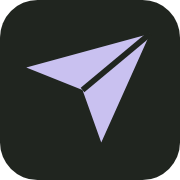
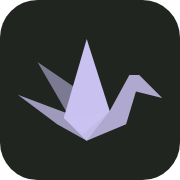
Replace paper plane with lavender origami crane

Changed region(s): [[0.1111, 0.1944, 0.9167, 0.8056]]

diff --git a/apps/web/index.html b/apps/web/index.html
@@ -18,11 +18,11 @@
     <meta name="twitter:description" content="Public Papertrade analytics: live protocol metrics, wallet balances, deposits, and trading history." />
     <meta name="twitter:image:alt" content="paperclub wordmark beside a manga woman with lavender headphones overlooking a city." />
     <link rel="preload" href="/fonts/dm-sans-latin.woff2" as="font" type="font/woff2" crossorigin />
-    <link rel="icon" type="image/png" sizes="16x16" href="/favicon-16.png?v=paper-plane" />
-    <link rel="icon" type="image/png" sizes="32x32" href="/favicon-32.png?v=paper-plane" />
-    <link rel="icon" type="image/png" sizes="192x192" href="/favicon-192.png?v=paper-plane" />
-    <link rel="icon" type="image/svg+xml" sizes="any" href="/favicon.svg?v=paper-plane" />
-    <link rel="apple-touch-icon" sizes="180x180" href="/apple-touch-icon.png?v=paper-plane" />
+    <link rel="icon" type="image/png" sizes="16x16" href="/favicon-16.png?v=origami-crane-v1" />
+    <link rel="icon" type="image/png" sizes="32x32" href="/favicon-32.png?v=origami-crane-v1" />
+    <link rel="icon" type="image/png" sizes="192x192" href="/favicon-192.png?v=origami-crane-v1" />
+    <link rel="icon" type="image/svg+xml" sizes="any" href="/favicon.svg?v=origami-crane-v1" />
+    <link rel="apple-touch-icon" sizes="180x180" href="/apple-touch-icon.png?v=origami-crane-v1" />
     <title>paperclub — Papertrade analytics</title>
   </head>
   <body>

diff --git a/apps/web/src/App.tsx b/apps/web/src/App.tsx
@@ -71,12 +71,17 @@ function PaperMark({ size = 30 }: { size?: number }) {
     <svg
       width={size}
       height={size}
-      viewBox="0 0 40 40"
+      viewBox="0 0 48 48"
       fill="none"
       aria-hidden="true"
     >
-      <path d="m3 14 33-9-13 29-5-14z" fill="currentColor" />
-      <path d="M18 20 36 5" stroke="var(--paper)" strokeWidth="1.5" />
+      <g transform="translate(0 3.5)" fill="currentColor">
+        <path d="M8 12 27 25 19 31Z" opacity=".55" />
+        <path d="M2 22 18 28 23 36 14 31Z" opacity=".75" />
+        <path d="m23 5 7 22-8 7-6-5Z" />
+        <path d="m16 29 14-2 6-11h3l7 7-8-2-3 10-12 5Z" opacity=".85" />
+        <path d="m16 29 14-2-7 9Z" opacity=".75" />
+      </g>
     </svg>
   );
 }

diff --git a/docs/ARTWORK.md b/docs/ARTWORK.md
@@ -20,7 +20,7 @@ Use case: background-extraction. Edit target: the attached original manga illust
 
 ## Browser identity and link previews
 
-Browser and saved-link icons use the site's paper-plane mark in lavender on an ink tile. The canonical source is `apps/web/public/favicon.svg`, with the same plane geometry as the header mark. Run `node scripts/generate-icons.mjs` to regenerate PNG/ICO variants with the installed Playwright Chromium. Explicit icon URLs are versioned to refresh older cached portraits.
+Browser and saved-link icons use an origami crane in lavender on an ink tile. The angular wing, bent neck and broad folded facets keep the silhouette legible at small sizes. The canonical icon source is `apps/web/public/favicon.svg`, with the same crane geometry as the header and empty-state marks. Run `node scripts/generate-icons.mjs` to regenerate PNG/ICO variants with the installed Playwright Chromium. Explicit icon URLs are versioned to refresh older cached marks.
 
 The character remains in the larger shared-link preview, while the dashboard itself stays compact. That illustration was edited with the built-in image-generation tool using the existing original illustration and cutout, then encoded as a 1200 × 630 JPEG. The earlier portrait is retained as source artwork and is no longer used as an icon.
 
